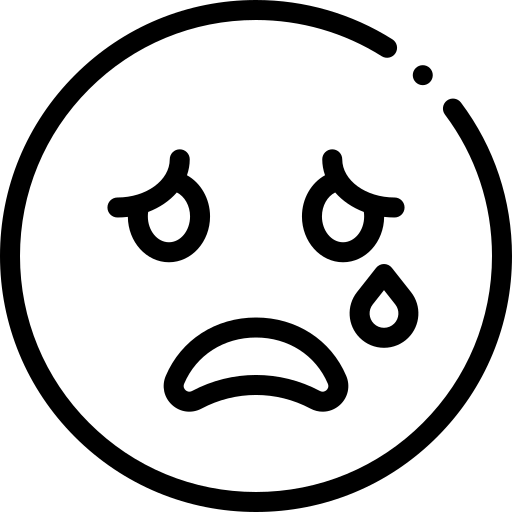
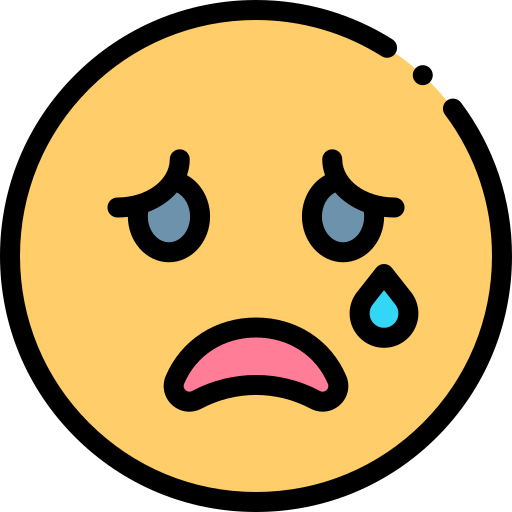
build down widget of nav-1 component

diff --git a/lib/core/dashboard/home/screens/home.dart b/lib/core/dashboard/home/screens/home.dart
@@ -13,6 +13,22 @@ class HomeScreen extends StatefulWidget {
 }
 
 class _HomeScreenState extends State<HomeScreen> {
+  String _selectedMood = '';
+
+  /// for mood change
+  ///
+  /// if the user selects an already selected mood, it clears away
+  ///
+  /// else it sets that selected mood as the current mood
+  void _selectMood(String mood) {
+    if (_selectedMood == mood) {
+      _selectedMood = '';
+    } else {
+      _selectedMood = mood;
+    }
+    setState(() {});
+  }
+
   @override
   Widget build(BuildContext context) {
     return Scaffold(
@@ -30,7 +46,6 @@ class _HomeScreenState extends State<HomeScreen> {
               child: Container(
                 height: kScreenHeight(context) * 0.8,
                 width: kScreenWidth(context),
-                //constraints: const BoxConstraints.expand(),
                 decoration: const BoxDecoration(color: kPrimaryColor),
                 child: const FlutterLogo(
                   size: 300,
@@ -39,17 +54,244 @@ class _HomeScreenState extends State<HomeScreen> {
             ),
             Align(
               alignment: Alignment.bottomCenter,
-              child: Container(
-                height: kScreenHeight(context) * 0.4,
-                width: kScreenWidth(context),
-                // constraints: const BoxConstraints.expand(),
-                decoration: const BoxDecoration(color: kCanvasColor),
-                child: const FlutterLogo(
-                  size: 200,
+              child: Expanded(
+                child: SingleChildScrollView(
+                  child: Container(
+                    height: kScreenHeight(context) * 0.45,
+                    width: kScreenWidth(context),
+                    decoration: const BoxDecoration(
+                      borderRadius: BorderRadiusDirectional.only(
+                        topStart: Radius.circular(kMediumRadius),
+                        topEnd: Radius.circular(kMediumRadius),
+                      ),
+                      color: kCanvasColor,
+                    ),
+                    child: Column(
+                      crossAxisAlignment: CrossAxisAlignment.start,
+                      children: [
+                        Center(
+                          child: Container(
+                            margin: const EdgeInsets.only(top: kPaddingS),
+                            width: kScreenWidth(context) * 0.15,
+                            height: 5,
+                            decoration: const BoxDecoration(
+                              borderRadius: BorderRadius.all(
+                                Radius.circular(kMediumRadius),
+                              ),
+                              color: kPrimaryColor,
+                            ),
+                          ),
+                        ),
+                        Padding(
+                          padding: const EdgeInsets.all(kPaddingM),
+                          child: Text(
+                            'Daily Mood Log',
+                            style: Theme.of(context)
+                                .textTheme
+                                .titleLarge!
+                                .copyWith(fontSize: 18, fontWeight: FontWeight.w900, color: kPrimaryColor),
+                          ),
+                        ),
+                        Row(
+                          mainAxisAlignment: MainAxisAlignment.spaceEvenly,
+                          children: [
+                            Expanded(
+                              child: _Mood(
+                                emojiImgPath: AssetsImages.loveEmoji,
+                                emojiName: 'Love',
+                                width: kScreenWidth(context) * 0.1,
+                                selected: _selectedMood == 'Love',
+                                onSelected: () => _selectMood('Love'),
+                              ),
+                            ),
+                            Expanded(
+                              child: _Mood(
+                                emojiImgPath: AssetsImages.happyEmoji,
+                                emojiName: 'Happy',
+                                width: kScreenWidth(context) * 0.1,
+                                selected: _selectedMood == 'Happy',
+                                onSelected: () => _selectMood('Happy'),
+                              ),
+                            ),
+                            Expanded(
+                              child: _Mood(
+                                emojiImgPath: AssetsImages.sadEmoji,
+                                emojiName: 'Sad',
+                                width: kScreenWidth(context) * 0.1,
+                                selected: _selectedMood == 'Sad',
+                                onSelected: () => _selectMood('Sad'),
+                              ),
+                            ),
+                            Expanded(
+                              child: _Mood(
+                                emojiImgPath: AssetsImages.depressedEmoji,
+                                emojiName: 'Depress',
+                                width: kScreenWidth(context) * 0.1,
+                                selected: _selectedMood == 'Depress',
+                                onSelected: () => _selectMood('Depress'),
+                              ),
+                            ),
+                          ],
+                        ),
+                        Padding(
+                          padding: const EdgeInsets.only(left: kPaddingM, right: kPaddingM, top: kPaddingM),
+                          child: Text(
+                            'Daily Reflection',
+                            style: Theme.of(context)
+                                .textTheme
+                                .titleLarge!
+                                .copyWith(fontSize: 18, fontWeight: FontWeight.w900, color: kPrimaryColor),
+                          ),
+                        ),
+                        Padding(
+                          padding: const EdgeInsets.symmetric(horizontal: kPaddingM),
+                          child: Text(
+                            'How do you feel about your current emotions?',
+                            style: Theme.of(context)
+                                .textTheme
+                                .bodyMedium!
+                                .copyWith(fontSize: 14, color: kBlueThreeVariantColor),
+                          ),
+                        ),
+                        Padding(
+                         padding: const EdgeInsets.only(left: kPaddingM, right: kPaddingM, top: kPaddingM),
+                          child: _ReflectionInput(),
+                        ),
+                        
+              
+                      ],
+                    ),
+                  ),
                 ),
               ),
             ),
           ],
         ));
+  }
+}
+
+/// Displays component to represent user's mood
+class _Mood extends StatelessWidget {
+  /// Displays component to represent user's mood
+  const _Mood(
+      {required this.emojiImgPath,
+      required this.emojiName,
+      required this.width,
+      required this.selected,
+      required this.onSelected});
+
+  final String emojiImgPath;
+  final String emojiName;
+  final double width;
+  final bool selected;
+  final VoidCallback onSelected;
+
+  @override
+  Widget build(BuildContext context) {
+    return InkWell(
+      onTap: onSelected,
+      child: Container(
+        padding: const EdgeInsets.all(kPaddingS - 5),
+        margin: const EdgeInsets.symmetric(horizontal: kPaddingS),
+        width: width,
+        decoration: BoxDecoration(
+          color: selected ? kPrimaryColor : kTransparent,
+          borderRadius: const BorderRadius.all(Radius.circular(kSmallRadius)),
+          border: Border.all(color: kLightPrimaryColor),
+        ),
+        child: Column(
+          mainAxisSize: MainAxisSize.min,
+          mainAxisAlignment: MainAxisAlignment.center,
+          children: [
+            Container(
+              decoration: BoxDecoration(
+                color: kWhite,
+                borderRadius: BorderRadius.circular(100),
+              ),
+              child: Image.asset(
+                emojiImgPath,
+                width: 40,
+                height: 40,
+              ),
+            ),
+            const SizedBox(height: kPaddingS),
+            Text(
+              emojiName,
+              style: TextStyle(
+                color: selected ? kWhite : null,
+                fontWeight: selected ? FontWeight.bold : null,
+              ),
+            )
+          ],
+        ),
+      ),
+    );
+  }
+}
+
+/// Displays component where users can send their reflections
+class _ReflectionInput extends StatelessWidget {
+  /// Displays component where users can send their reflections
+  _ReflectionInput();
+  final _formKey = GlobalKey<FormState>();
+
+  @override
+  Widget build(BuildContext context) {
+    return Form(
+      key: _formKey,
+      child: Row(
+        children: [
+          Flexible(
+           fit: FlexFit.loose,
+            child: SizedBox(
+              //width: kScreenWidth(context) * 0.7,
+              child: SingleChildScrollView(
+                child: TextFormField(
+                  key: const ValueKey('reflection'),
+                  keyboardType: TextInputType.text,
+                  maxLines: 3,
+                  style: const TextStyle(fontSize: 12),
+                  decoration: InputDecoration(
+                    contentPadding: const EdgeInsets.symmetric(vertical: 2.0, horizontal: 15.0),
+                    labelText: 'Reflection today?',
+                    labelStyle: Theme.of(context)
+                        .textTheme
+                        .bodyMedium!
+                        .copyWith(color: kBlueThreeVariantColor, fontWeight: FontWeight.w800),
+                    border: const OutlineInputBorder(),
+                    focusedBorder: const OutlineInputBorder(borderSide: BorderSide(color: kPrimaryColor)),
+                    filled: false,
+                    fillColor: kGrey.withOpacity(0.3),
+                  ),
+                  cursorColor: kPrimaryColor,
+                  textCapitalization: TextCapitalization.sentences,
+                  validator: (value) {
+                    if (value!.isEmpty) {
+                      return 'You cannot send reflection';
+                    }
+                        
+                    return null;
+                  },
+                  onSaved: (value) {},
+                ),
+              ),
+            ),
+          ),
+          SizedBox(width: kScreenWidth(context) * 0.05),
+          SizedBox(
+            height: 60,
+            width: 60,
+            child: ElevatedButton(
+              style: ElevatedButton.styleFrom(
+                backgroundColor: kPrimaryColor,
+                shape: const CircleBorder(),
+              ),
+              onPressed: () {},
+              child: const Icon(Icons.send_outlined, color: kWhite,),
+            ),
+           ),
+        ],
+      ),
+    );
   }
 }

diff --git a/lib/configs/constants.dart b/lib/configs/constants.dart
@@ -105,6 +105,10 @@ class AssetsImages {
   static const String authBgImg = 'assets/images/auth/auth_pic.png';
   static const String logoImg = 'assets/images/dashboard/mental_health.png';
   static const String googleIcon = 'assets/images/auth/google_icon.png';
+  static const String happyEmoji = 'assets/images/emojis/happy.png';
+  static const String sadEmoji = 'assets/images/emojis/sad.png';
+  static const String loveEmoji = 'assets/images/emojis/in_love.png';
+  static const String depressedEmoji = 'assets/images/emojis/depression.png';
 }
 
 /// Assets Animations
